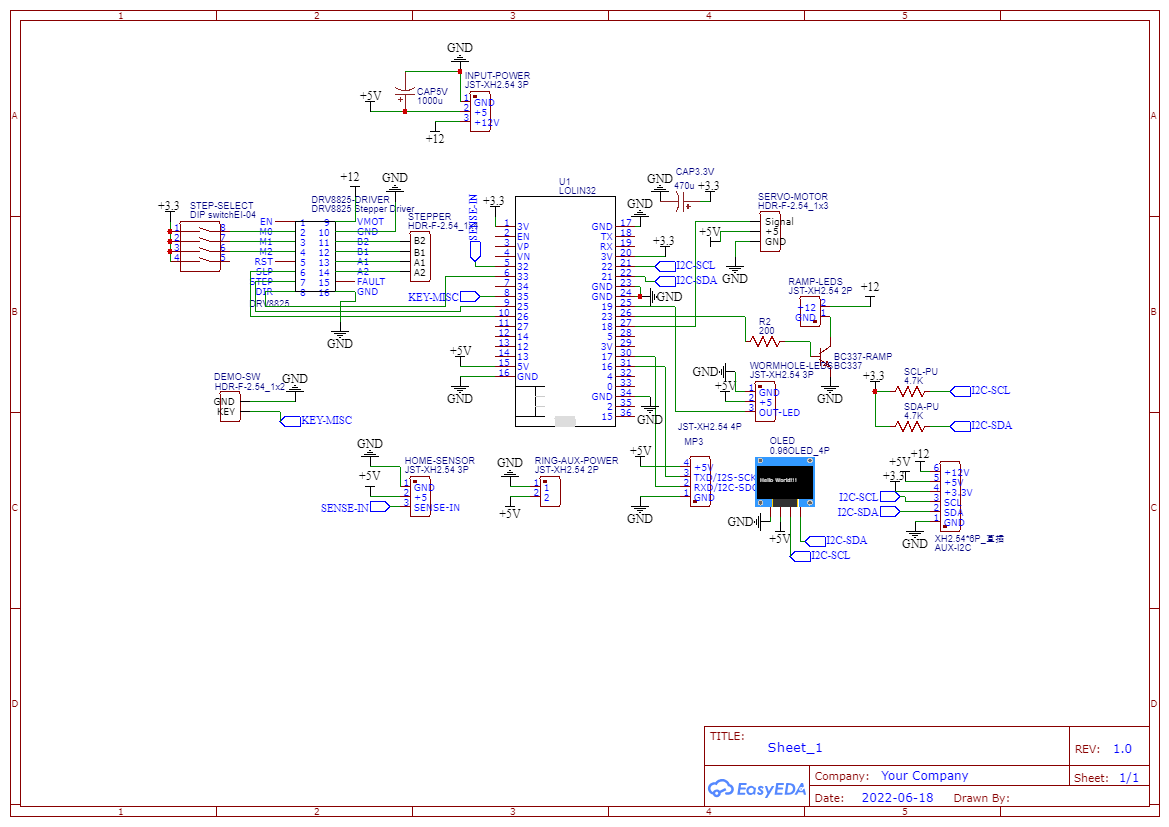
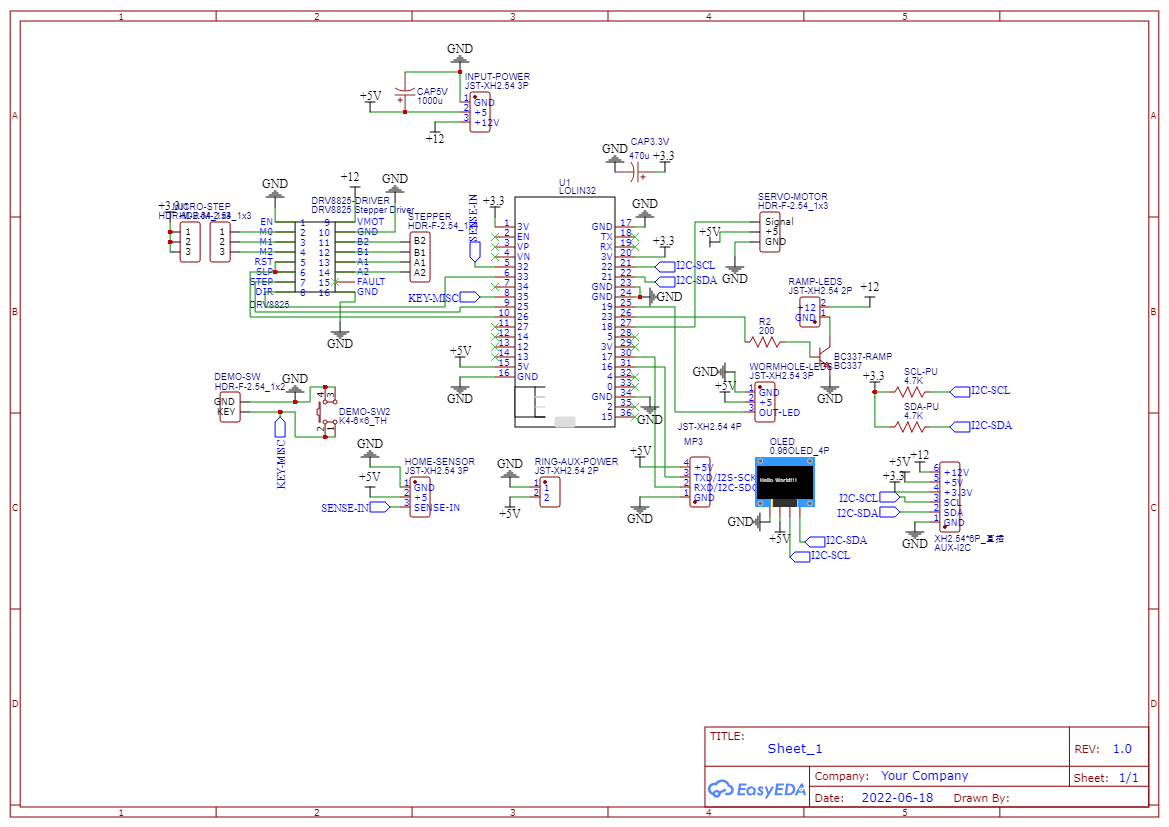
Chore/maxou/doc pcb update (#67)
* update pcb, separate hardware config from firmware

* remove warnings mostly and rearrange files

* move function and do some clean-up

* Move API code

* rename main file

* update image

* SGU base PCB update

* fix pcb error + code

* fix compilation

* doc PCB

---------

diff --git a/Build-Instructions/Build-Manual-Base-3.md b/Build-Instructions/Build-Manual-Base-3.md
@@ -30,8 +30,13 @@ It sounds better at 1/16 but it's perfectly workable at 1/8.
 | High | High | High | 1/32 step
 
 The photo is old, I used JST connector later because the job is prettier.
+(No attachement in this photo, perhaps a STL for attach will be made later)
 
 ![](./Assets/circuit-board-example.jpg)
+
+The OLED screen is not mandatory
+
+![](./Assets/pcb-3d.png)
 
 ## Program the ESP32
 
